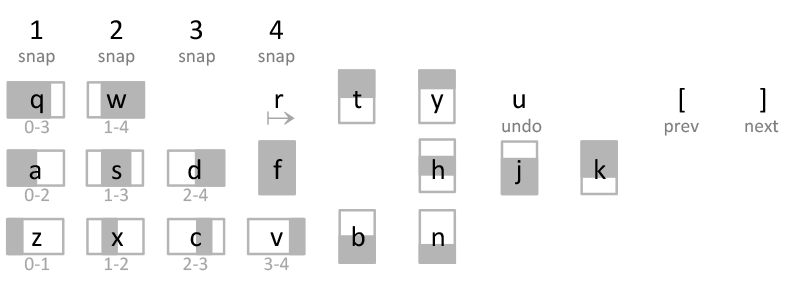
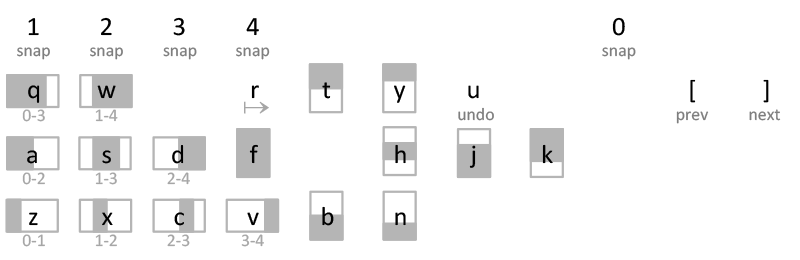
Add 'snap 0' option

diff --git a/src/ArgParser.cc b/src/ArgParser.cc
@@ -47,7 +47,7 @@ ArgParser::Args ArgParser::parse(int argc, const char *argv[])
 
     else if (arg1 == "snap" && argc < 4)
     {
-        args.index = 1;
+        args.index = 1; // default value
         if (argc == 3)
         {
             int i(-1);
@@ -56,7 +56,7 @@ ArgParser::Args ArgParser::parse(int argc, const char *argv[])
             } catch(...) {
                 return args;
             }
-            if (i >= 1)
+            if (i >= 0) // minimum value
                 args.index = (std::size_t)i;
             else
                 return args;
@@ -184,9 +184,10 @@ tile snap [count]
     [count]     - take count windows from the top of 'tile list' and snap
                   them side-by-side (horizontal movements only; no resize)
                   with the most recently focused window as the pivot
-                - if count is 1, snaps the window to the closest display edge
+                - if count is 1, snaps the pivot to the closest display edge
+                - if count is 0, snaps the pivot to the center of its display
         (none)  equivalent to 1
-        number  number windows to be snapped together (>= 1)
+        number  number windows to be snapped together (>= 0)
 
 tile [command] [app_name] [window_index] (all positional arguments)
     [command] = [h_cmd][v_cmd]

diff --git a/src/tile.mm b/src/tile.mm
@@ -123,18 +123,22 @@ int main(int argc, const char *argv[])
     if (args.action == ArgParser::action::snap)
     {
         const auto &windows = win_disp.first.get_vec(); 
-        auto n_win = std::min(args.index, windows.size());
-
-        if (n_win < 1)
+        if (windows.empty() == true)
         {
             std::cerr << "No open windows to snap\n";
             return clean_exit(1);
         }
 
+        auto n_win = std::min(args.index, windows.size());
+
         Bounds blob(windows[0].bounds); // grows as more windows are attached
         Bounds disp = win_disp.second.target_display(blob);
 
         auto mid_x = [](Bounds b) { return (float)b.x + (float)b.w / 2.f; };
+
+        if (n_win == 0) // shift to left or right side of to-be-centered window
+            blob.x = mid_x(disp) +
+                     (mid_x(blob) > mid_x(disp) ? -1.5f : 0.5f) * blob.w;
 
         if (n_win == 1) // shift to just outside left or right edge
             blob.x = disp.x + (mid_x(blob) > mid_x(disp) ? disp.w : -blob.w);
